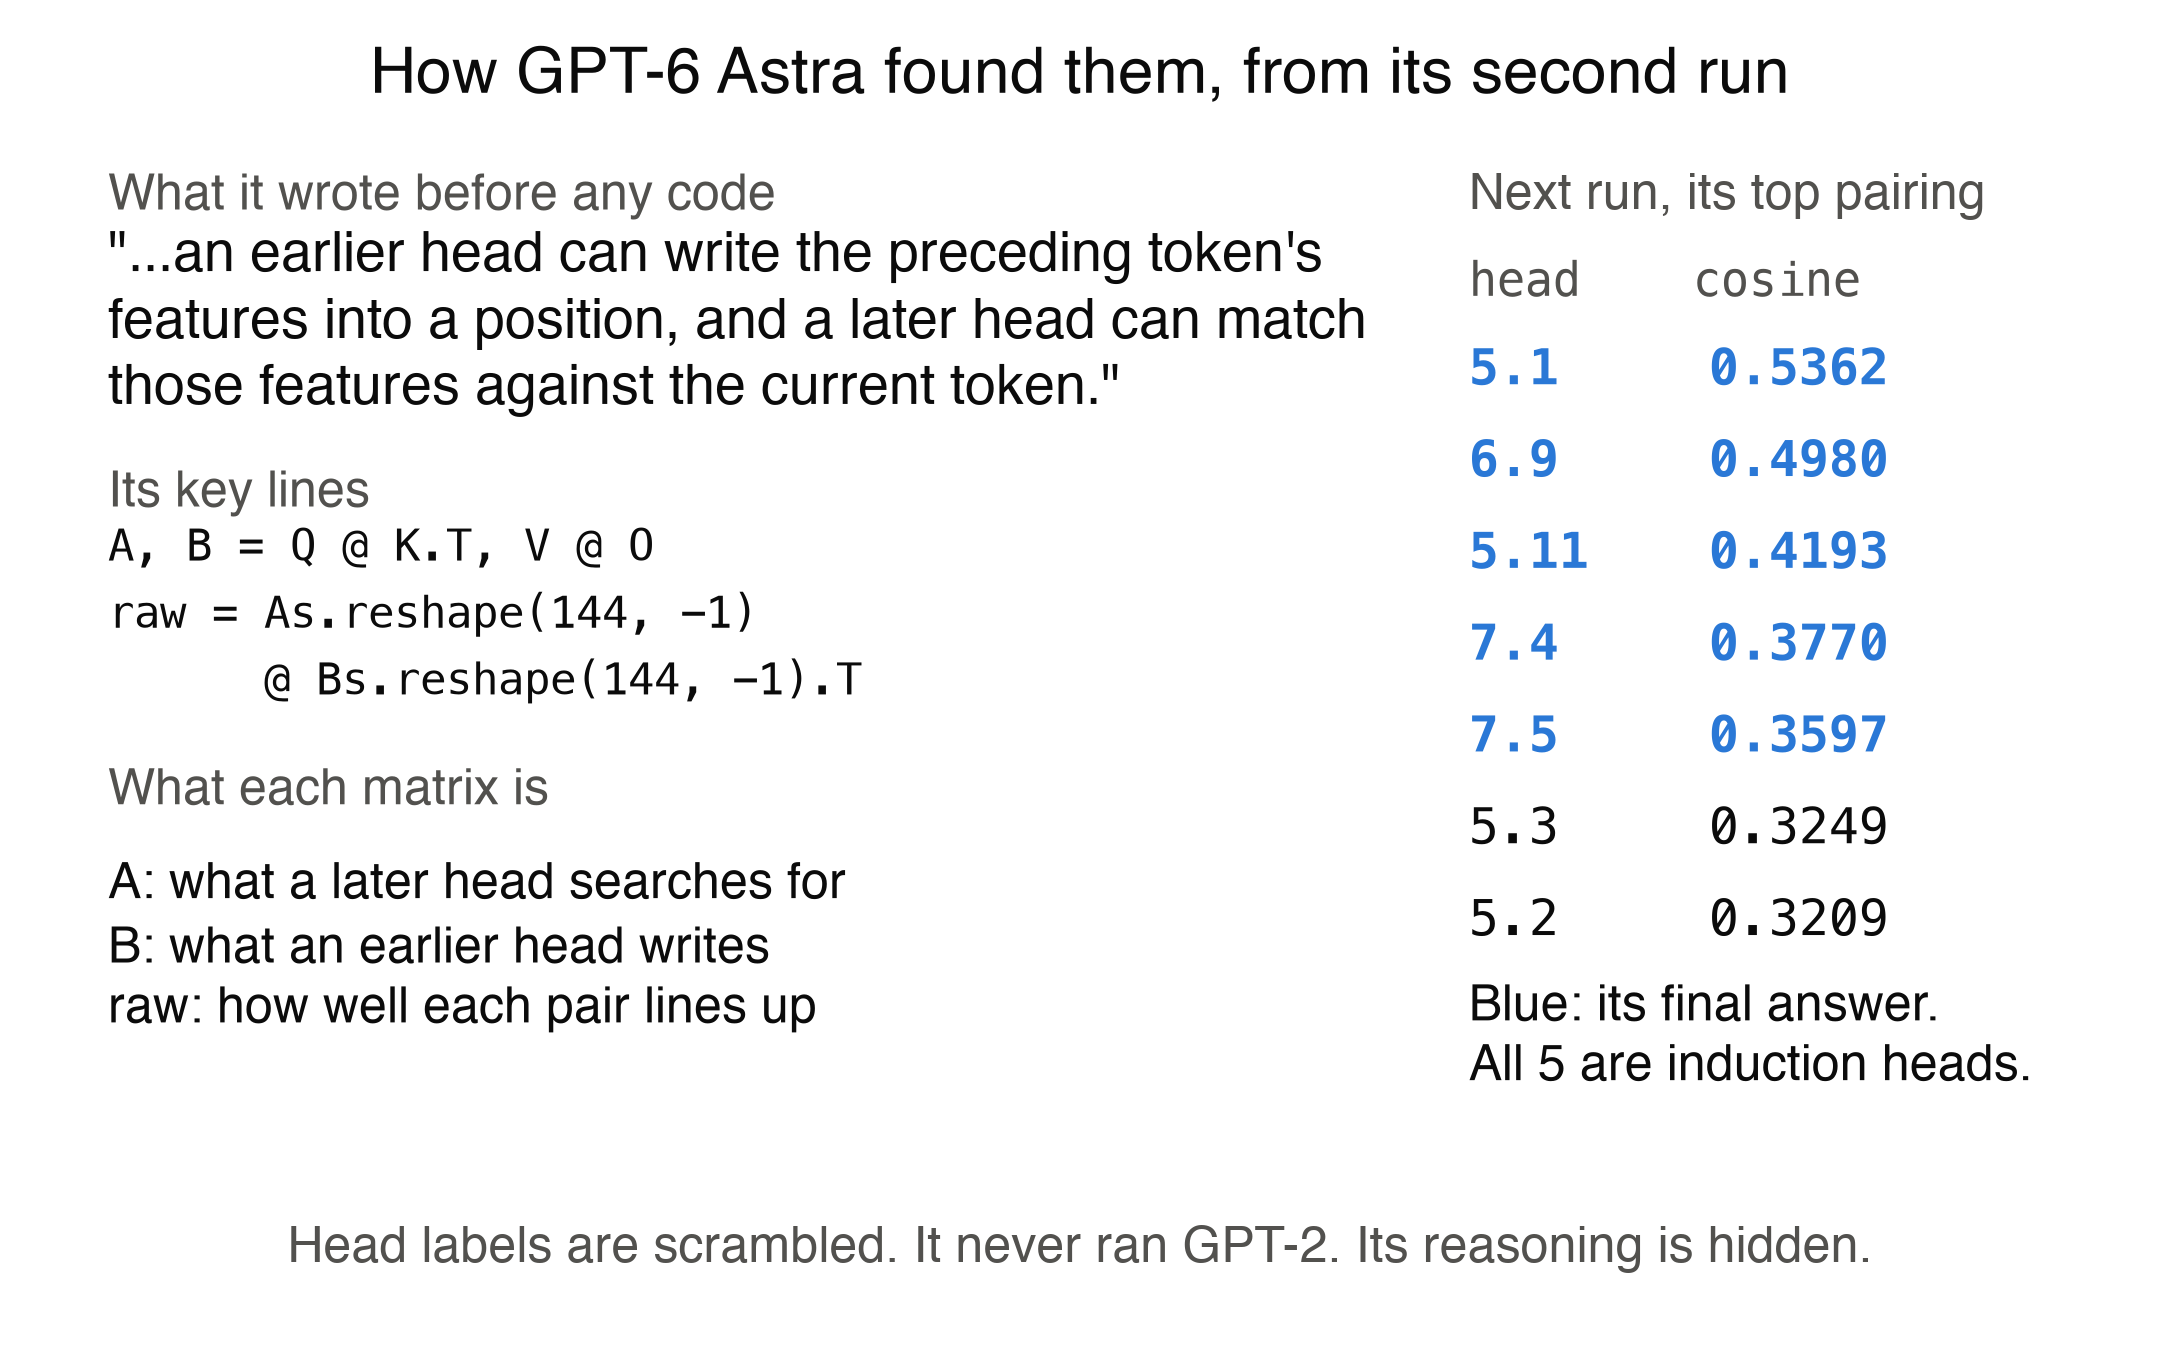
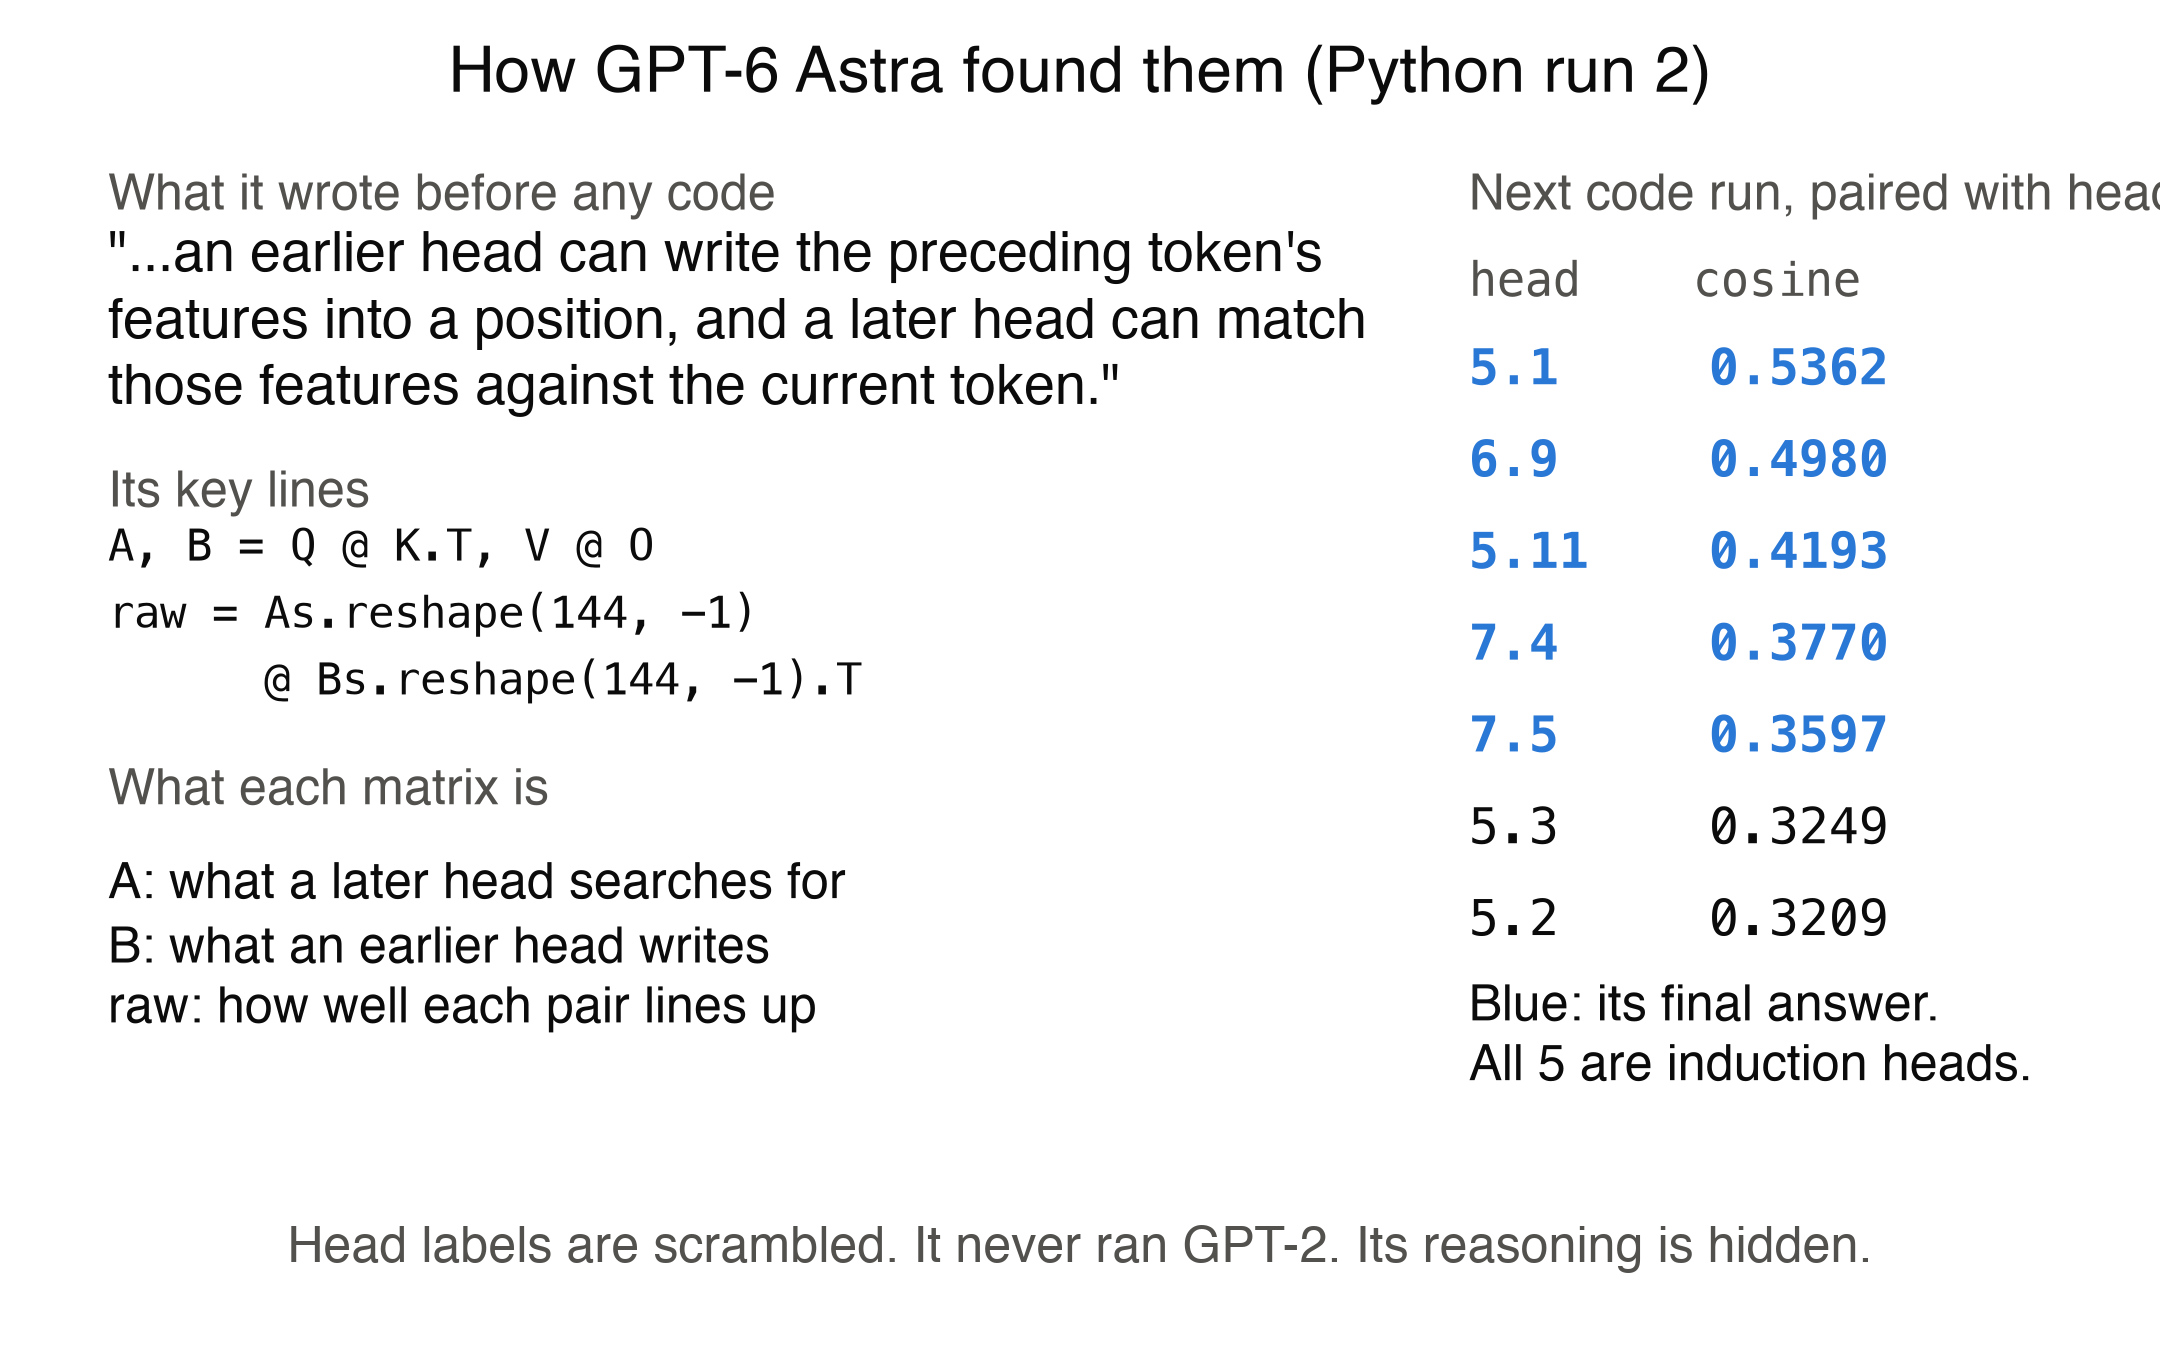
Label the method figure by run and drop a superseded figure

Changed region(s): [[0.1551, 0.0311, 0.8375, 0.0933], [0.7134, 0.1244, 1.0, 0.1556]]

diff --git a/scripts/reading_figure.py b/scripts/reading_figure.py
@@ -287,14 +287,14 @@ def _method_figure() -> None:
     answer = [f"{layer}.{head}" for layer, head in _run_result("python-2")["answer"]]
     table = [line.split() for line in turns[1]["output"].splitlines()[2:9]]
     figure = plt.figure(figsize=FIGURE_INCHES, facecolor="white")
-    figure.text(0.5, 0.945, "How GPT-6 Astra found them, from its second run", fontsize=TITLE_POINTS, ha="center", va="center", color=INK)
+    figure.text(0.5, 0.945, "How GPT-6 Astra found them (Python run 2)", fontsize=TITLE_POINTS, ha="center", va="center", color=INK)
     figure.text(0.05, 0.855, "What it wrote before any code", fontsize=LABEL_POINTS - 2, color=MUTED, va="center")
     figure.text(0.05, 0.76, "\"...an earlier head can write the preceding token's\nfeatures into a position, and a later head can match\nthose features against the current token.\"", fontsize=LABEL_POINTS, color=INK, va="center", linespacing=1.3)
     figure.text(0.05, 0.635, "Its key lines", fontsize=LABEL_POINTS - 2, color=MUTED, va="center")
     figure.text(0.05, 0.545, "\n".join(METHOD_CODE_SHOWN), fontsize=LABEL_POINTS - 4, color=INK, va="center", family="Menlo", linespacing=1.5)
     figure.text(0.05, 0.415, "What each matrix is", fontsize=LABEL_POINTS - 2, color=MUTED, va="center")
     figure.text(0.05, 0.3, "A: what a later head searches for\nB: what an earlier head writes\nraw: how well each pair lines up", fontsize=LABEL_POINTS - 2, color=INK, va="center", linespacing=1.4)
-    figure.text(0.68, 0.855, "Next run, its top pairing", fontsize=LABEL_POINTS - 2, color=MUTED, va="center")
+    figure.text(0.68, 0.855, "Next code run, paired with head 4.9", fontsize=LABEL_POINTS - 2, color=MUTED, va="center")
     figure.text(0.68, 0.79, "head    cosine", fontsize=LABEL_POINTS - 3, color=MUTED, va="center", family="Menlo")
     for index, row in enumerate(table):
         chosen = row[0] in answer

diff --git a/HOW_ASTRA_FOUND_THEM.md b/HOW_ASTRA_FOUND_THEM.md
@@ -8,10 +8,10 @@ With Python and no hint, GPT-6 Astra named all five of GPT-2's induction heads i
 1. **It stated a theory before reading a weight.** Run 2, turn 1: "an earlier head can write the preceding token's features into a position, and a later head can match those features against the current token." Run 1 opened with the same comparison. This took 1,291 and 972 reasoning tokens.
 2. **It scored every pair of heads.** For each head, `A = Q @ K.T` is what it searches for and `B = V @ O` is what it writes. The dot product of a later head's A with an earlier head's B says how well they line up. It also noted that these products don't depend on a head's internal coordinates, which is why the scrambling doesn't stop it.
 3. **One earlier head stood out.** It is 4.9 in both runs' scrambled labels, which is GPT-2's head 4.11.
-4. **Five later heads came out on top, and it named them.** In run 1 they top the first table it printed. In run 2 they top its second, which pairs each head with 4.9.
+4. **Five later heads came out on top, and it named them.** In run 1 they top its first ranking by alignment. In run 2 they top its second, which pairs each head with 4.9.
 5. **It spent the remaining turns checking.** It tried other weightings of the same comparison, and did not change its picks.
 
-Total reasoning was 6,542 and 5,759 tokens. The no-tools runs used about 43,000 and 51,000, and failed.
+Total reasoning was 6,542 and 5,759 tokens. The no-tools runs used about 42,000 and 51,000, and failed.
 
 ## Did it cheat?
 We looked for it and found none. An independent audit read every code block and session file:
